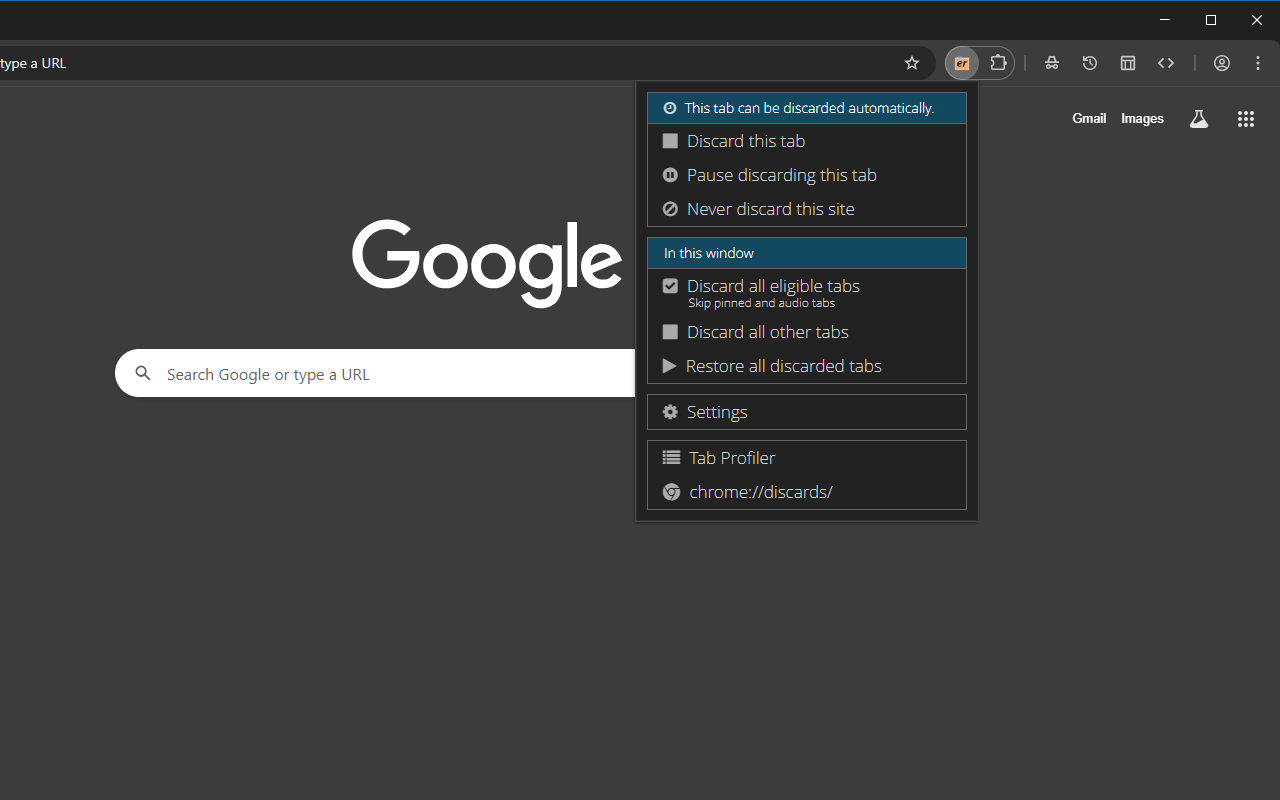
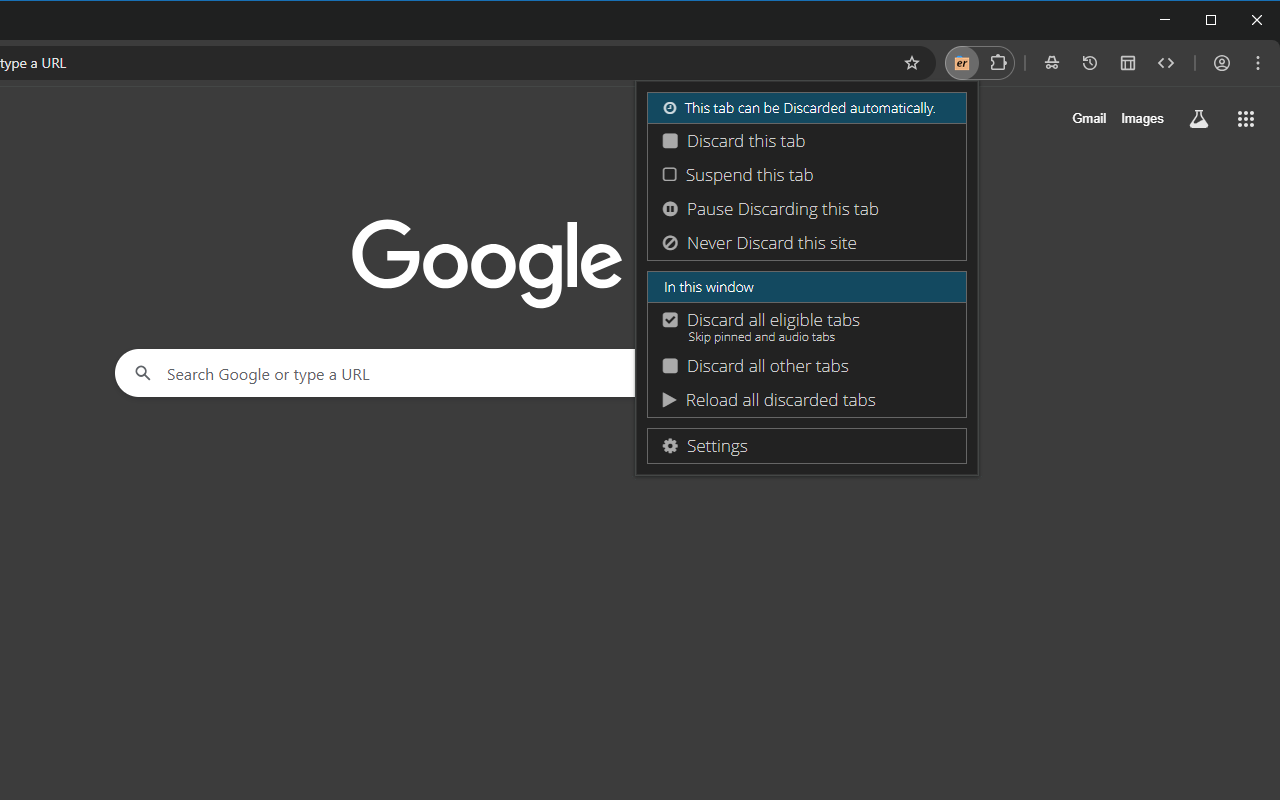
Prep for release

Changed region(s): [[0.5, 0.1875, 0.7812, 0.6562], [0.5938, 0.125, 0.75, 0.1562]]

diff --git a/src/html/about.html b/src/html/about.html
@@ -27,7 +27,8 @@
       <hr />
 
       <p>
-        Help others find this extension -- submit a rating!<br>
+        Help others find the extension<br>
+        Submit a &#x2B50;&#x2B50;&#x2B50;&#x2B50;&#x2B50; rating in the App Store(s) if you like the extension!<br>
         <ul class="unorderedList">
           <li>
             <a href="https://chromewebstore.google.com/detail/the-great-er-tab-discarder/plpkmjcnhhnpkblimgenmdhghfgghdpp" target="_blank">
@@ -36,7 +37,7 @@
           </li>
           <li>
             <a href="https://microsoftedge.microsoft.com/addons/detail/the-greater-tab-discarder/lieejiddoadedggjdkgeellgeeibbnai" target="_blank">
-            Edge Add-ons
+              Edge Add-ons
             </a>
           </li>
         </ul>
@@ -52,9 +53,18 @@
 
       <h2>What's New</h2>
       <p>
+        <div>v1.3.0 - Apr 2025</div>
+        <ul class="unorderedList">
+          <li>New: Suspending Tabs has been added</li>
+          <li>New: Suspended Tabs can have their tab titles customized with a prefix</li>
+          <li>Update: Migrating tabs lets you view and select which tabs to Migrate or Convert</li>
+          <li>New: <span class="bold">Tiny Suspender</span> suspend.html tabs can be migrated</li>
+          <li>Fix: Tab migration to handle the different formats better, which should prevent looping</li>
+        </ul>
+
         <div>v1.2.2 - Mar 2025</div>
         <ul class="unorderedList">
-          <li>- Fix: "Discard at startup" (again) to prevent discarding tabs when the browser restarts idle workers</li>
+          <li>Fix: "Discard at startup" (again) to prevent discarding tabs when the browser restarts idle workers</li>
         </ul>
 
         <div>v1.2.1 - Mar 2025</div>
@@ -65,18 +75,12 @@
 
         <div>v1.2.0 - Mar 2025</div>
         <ul class="unorderedList">
-          <li>New: Migrate park.html tabs from "<span class="bold">Tab Suspender</span>"</li>
+          <li>New: <span class="bold">Tab Suspender</span> park.html tabs can be migrated</li>
           <li>Fix: "Don't discard this tab for now" and rename it to "Pause discarding this tab"</li>
           <li>Fix: Several other issues related to popup and context menu actions</li>
           <li>New: Tab Groups are now ( optionally ) displayed on the Profiler page</li>
         </ul>
 
-        <div>v1.1.0 - Feb 2025</div>
-        <ul class="unorderedList">
-          <li>New: Migrate suspended.html tabs from several other extensions</li>
-          <li>New: Automatic dark mode</li>
-          <li>New Name!  Sort-of.  Small change for now, to see if visibility changes</li>
-        </ul>
       </p>
       <p>
         Full change log on

diff --git a/src/js/suspended.js b/src/js/suspended.js
@@ -62,13 +62,12 @@
 
   function updatePage() {
     const url     = parseURL();
-    console.log(url, url.hash_vars.toString());
+    // console.log(url, url.hash_vars.toString());
     if (url.target && url.clean_title) {
       setInnerHTML('suspended_title', `<img src="${faviconURL(url.target)}" class="favicon" />${url.clean_title ?? ''}`);
       setInnerHTML('suspended_uri', `<a href="${url.target}">${url.target}</a>`);
       setAttribute('suspended_ico', 'href', faviconURL(url.target));
       setHeadTitle(url.full_title);
-      // console.log(`[${url.emoji}]`);
       const sel   = document.getElementById('customTitle');
       if (sel instanceof HTMLSelectElement && url.emoji) {
         sel.value = url.emoji;
@@ -82,7 +81,7 @@
    */
   function customTitle(value) {
     const url     = parseURL();
-    console.log(url, url.hash_vars.toString());
+    // console.log(url, url.hash_vars.toString());
     let str_title = '';
     if (!value) {
       str_title   = url.clean_title;
@@ -106,7 +105,7 @@
     let hash      = `#${url.hash_vars.toString()}`;
     // if (url.hash_uri) hash += `&uri=${url.hash_uri}`;
     document.location.hash = hash;
-    console.log(hash);
+    // console.log(hash);
     updatePage();
   }
 

diff --git a/README.md b/README.md
@@ -4,127 +4,115 @@
 + The Great-er Tab Discarder
 ```
 
-This is a fork of the dormant "The Great Discarder" project, now updated with new features.<br>
-No tracking.  No drama.  Only fast-*er* browsing!<br>
+Helps your browser load and run faster by freeing up memory and resources used by inactive or old tabs.
+
+No tracking.  No drama.  Only fast-*er* browsing!
+
 Full Manifest V3 support in Chrome and Edge.
 
 <br>
 
-**Welcome** to all users coming from "**The Marvellous Suspender**", "**The Great Suspender (notrack)**", "**Tab Suspender**", or other similar extensions!
+## Welcome
+...to all users coming from
+- **The Marvellous Suspender**
+- **The Great Suspender (notrack)**
+- **Tab Suspender**
+- **Tiny Suspender**
+- This extension can migrate your suspended tabs!
 
 > Is your tab "Suspender" extension showing a warning "This extension may soon no longer be supported" ?<br>
 
-Don't risk losing your suspended tabs!<br>
+Don't risk losing your suspended tabs!
+
 This extension can migrate your existing suspended tabs,
 so you won't lose them if/when Chrome removes your old unsupported extensions.
 
 <br>
 
+## Get the extension
+
+- [Chrome Web Store](https://chromewebstore.google.com/detail/the-great-er-tab-discarder/plpkmjcnhhnpkblimgenmdhghfgghdpp)
+- [Microsoft Edge Add-ons](https://microsoftedge.microsoft.com/addons/detail/the-greater-tab-discarder/lieejiddoadedggjdkgeellgeeibbnai)
+
+Help others find the extension -- submit a ⭐⭐⭐⭐⭐ rating in the App Store(s) if you like the extension!
+
+<br>
+
 ## What does "Discarding" a tab mean?
 > A discarded tab is one whose content has been unloaded from memory, but is still visible in the tab strip.
-> Its content is reloaded the next time it is activated.
+> Its content is automatically reloaded the next time it is activated.
 
 Discarding a tab does NOT close or remove or delete the tab.
 It natively tells your browser it can frees up memory and resources, and is the preferred way to keep your browser running fast and efficient.
 
 ## What about "Suspending" tabs?
-Tab suspending is the old-school approach at saving memory.
-Problem is, the browsers still assign resources to the suspended mini-pages.
-Tab discarding was added for a reason, as it allows the browser to natively free up memory.
+Tab suspending is the old-school approach at saving memory, **but allows for customization**.
+Your browser will still assign some resources to the suspended "mini-pages" to allow for the customization.
+You can also Discard a Suspended tab...  perhaps getting the best of both worlds.
+
+<br>
+
+## Screenshots
+<img src="./screenshots/Popup Light.png" height="200" /> &nbsp;
+<img src="./screenshots/Options Light.png" height="200" /> &nbsp;
+
+<img src="./screenshots/Popup Dark.png" height="200" /> &nbsp;
+<img src="./screenshots/Options Dark.png" height="200" /> &nbsp;
 
 <br>
 
 ## What's New
-see [CHANGELOG.md](./CHANGELOG.md) for full details.
 
-### Mar 2025
-- Migrate `park.html` tabs from "**Tab Suspender**"
+### April 2025
+- **Suspending Tabs** has been added
+  - You can Suspend individual tabs in addition to Discarding them, using the extension popup or keyboard shortcuts
+  - You can switch between automatic Suspending and Discarding tabs in the Settings
+- **Suspended Tabs** can have their tab titles customized with a prefix for setting visual distinction
+  - Example prefixes: 💤 🔴 🟡 ( ... and more colors )
+  - I'm considering favicon customization as well, if there's positive feedback for that
+- **Migrating** tabs is awesome-*er* now that you can view and select which eligible tabs you'd like to Migrate or Convert
+- **Tiny Suspender** `suspend.html` tabs can be migrated!
+- Fixed tab migration to handle the different formats better, which should prevent looping
+
+### March 2025
+- **Tab Suspender** `park.html` tabs can be migrated!
 - Fixed several issues ( introduced by Manifest V3 ) affecting popup and context menu actions
-- Fixed "Discard at startup" to handle occasional browser startup quirks
+- **Discard at startup** was fixed to handle occasional browser startup quirks
 - Rearrange the tab migration page to simplify it a bit
 - Tab Groups are now ( optionally ) displayed on the Profiler page
 
-### Feb 2025
-- Updated to "Manifest V3" so no more warning messages from Chrome!
-- Migrate `suspended.html` tabs from several other extensions, like "**The Marvellous Suspender**" and "**The Great Suspender (notrack)**"
-- Automatic dark mode
-- New name!  ( Sort-of. )  Small change for now, to see if visibility changes
+see [CHANGELOG.md](./CHANGELOG.md) for full details.
 
 <br>
 
-## Installation
-
-Help others find this extension -- **submit a rating** on the App Store(s)!
-
-- [Chrome Web Store](https://chromewebstore.google.com/detail/the-great-er-tab-discarder/plpkmjcnhhnpkblimgenmdhghfgghdpp)
-- [Microsoft Edge Add-ons](https://microsoftedge.microsoft.com/addons/detail/the-greater-tab-discarder/lieejiddoadedggjdkgeellgeeibbnai)
-
-<br>
-
-## Added Features ( beyond the original )
+## Feature Highlights
 - **Migrate Tabs** - Migrate your suspended tabs from another extension - OR, you can convert them to proper Discarded tabs!
-- **Discard all tabs at startup** - Prevents loading all your tabs at startup, while preserving the tabs in your last session.
-- **Discard other eligible tabs** - Same as "Discard all other tabs" but observes the current auto-discard settings, like skipping Pinned and Audio tabs.
-- **Optional link to Discards debug page** - Adds a link on the context and popup menus to launch the built-in chrome://discards/ page.
-- **Options / Settings** - Will switch to an existing tab if one exists, instead of always launching a new tab.
-- **Removed Google Analytics** - No tracking. No drama.
+- **Automatic Dark Mode** - The extension follows your browser's Appearance settings.
+- **Discard all tabs at startup** - Prevents your browser from reloading all your tabs at startup, which can greatly speed up startup time.
+- **Discard all eligible tabs** - Same as "Discard all other tabs" but observes the current auto-discard settings, like skipping Pinned and Audio tabs.
+- **Display tab details** - Adds a link to the popup menus to show details useful for seeing how the extension sees things.
+- **Settings** - Will re-use an existing settings tab if one exists.
+- **Removed Google Analytics** - No tracking. No drama. Only fast-*er* browsing!
 
 <br>
 
-If you have suggestions or problems using the extension, please [submit a bug or a feature request on github](https://github.com/rkodey/the-great-er-discarder-er/issues).
+## Help & Support
 
-see [DEVNOTES.md](./DEVNOTES.md) for additional Developer Notes
+If you have suggestions or problems using the extension, please
+- [Start a discussion if you have a question](https://github.com/rkodey/the-great-er-discarder-er/discussions).
+- [Submit a bug or feature request](https://github.com/rkodey/the-great-er-discarder-er/issues).
 
 <br>
 
 ## Contributors
 - Huge thanks to **Mike Frysinger** ([vapier](https://github.com/vapier)) for updating to Manifest V3!
 - [LordXerus](https://github.com/LordXerus)
-
-
-<br><br>
-----------
-<br><br>
-
-
-# Notes from the original author...
-
-"The Great Discarder" started as a clone of another (former) open source extension "The Great Suspender".
-It was built to take advantage of Chromium's 'tab discarding' functionality which is essentially a native implementation of tab suspension.
-This extension is more robust and performant, both in the resources consumed by the extension, and the memory savings of the tab suspension.
-It is also compatible with tab history syncing.
-
-
-## Install as a local extension from source
-
-1. Download the **[latest release](https://github.com/rkodey/the-great-er-discarder-er/releases)** and unarchive to your preferred location (whichever suits you).
-2. Navigate to chrome://extensions/ and enable "Developer mode" in the upper right corner.
-3. Click on the `Load unpacked extension...` button.
-4. Browse to the src directory of the downloaded, un-archived release and confirm.
-
-
-## Build from github
-
-Dependencies: openssl, nodejs / npm.
-
-Clone the repository and run these commands:
-```
-npm install
-npm run generate-key
-npm run build
-```
-
-It should say:
-```
-Done, without errors.
-```
-
-The extension in crx format will be inside the build/crx/ directory. You can drag it into chrome://extensions to install locally.
-
-## License
-
-This work is licensed under a GNU GENERAL PUBLIC LICENSE (v2)
+  <br><br>see [DEVNOTES.md](./DEVNOTES.md) for additional Developer Notes
 
 ## Shout-outs
 - deanoemcke for original extension (before selling it) [thegreatdiscarder](https://github.com/deanoemcke/).
 - This package uses the indexedDb wrapper [db.js](https://github.com/aaronpowell/db.js) written by Aaron Powell.
+
+## License
+
+This work is licensed under a GNU GENERAL PUBLIC LICENSE (v2)

diff --git a/CHANGELOG.md b/CHANGELOG.md
@@ -6,6 +6,22 @@
 
 # Change Log
 
+## 1.3.0 - Apr 2025
+- New: **Suspending Tabs** has been added
+  ( [Closes #42](https://github.com/rkodey/the-great-er-discarder-er/issues/42) )
+  - You can Suspend individual tabs in addition to Discarding them, using the extension popup or keyboard shortcuts
+  - You can switch between automatic Suspending and Discarding tabs in the Settings
+- New: **Suspended Tabs** can have their tab titles customized with a prefix for setting visual distinction
+  ( [Partial #41](https://github.com/rkodey/the-great-er-discarder-er/issues/41) )
+  ( [Partial #5](https://github.com/rkodey/the-great-er-discarder-er/issues/5) )
+  - Example prefixes: 💤 🔴 🟡 ( ... and more colors )
+  - I'm considering favicon customization as well, if there's positive feedback for that
+- Update: **Migrating** tabs is awesome-*er* now that you can view and select which eligible tabs you'd like to Migrate or Convert
+- New: **Tiny Suspender** `suspend.html` tabs can be migrated!
+  ( [Closes #51](https://github.com/rkodey/the-great-er-discarder-er/issues/51) )
+- Fix: Tab migration to handle the different formats better, which should prevent looping
+  ( [Might help #45](https://github.com/rkodey/the-great-er-discarder-er/issues/45) )
+
 ## 1.2.2 - Mar 2025
 - Fix: "Discard at startup" (again) to prevent discarding tabs when the browser restarts idle workers
   ( [Closes #43](https://github.com/rkodey/the-great-er-discarder-er/issues/43) )

diff --git a/DEVNOTES.md b/DEVNOTES.md
@@ -6,16 +6,45 @@
 
 # Developer Notes
 
+<br>
+
 ## Tab migration
 
-### "Suspender" type URL format
-- uri is NOT encoded at the end -- their code explicitly notes this
+
+### `suspended.html` type URL format
+- uri is NOT encoded at the end -- their source code explicitly notes this
   > chrome-extension://`EXTID`/suspended.html#ttl=`TITLE`&pos=0&uri=`URI`
 
 
-### "Tab Profiler" URL format
+### "Tab Suspender" `park.html` URL format
+- fiabciakcmgepblmdkmemdbbkilneeeh
 - The querystring looks correctly coded here, and using URL.searchParams produces good results so far
   > chrome-extension://`EXTID`/park.html?title=`TITLE`&url=`URI`&tabId=`INT`&sessionId=`INT`&icon=data%3Aimage%2Fpng%3Bbase64%2C`data`
+
+
+### "Tiny Suspender" `suspend.html` URL format
+- bbomjaikkcabgmfaomdichgcodnaeecf
+  > chrome-extension://`EXTID`/suspend.html?url=`URI`&title=`TITLE`&favIconUrl=https%3A%2F%2Fkodey.com%2Fassets%2Fimg%2Ffavicons%2Ffavicon.ico&scroll_x=0&scroll_y=0&dark_mode=true
+
+<br>
+
+## Building the extension from source
+
+You must have nodejs installed
+
+Clone the repository and run these commands:
+```
+npm install
+npm run generate-key
+npm run build
+```
+
+It should say:
+```
+Done, without errors.
+```
+
+The extension in crx format will be inside the build/crx/ directory. You can drag it into chrome://extensions to install locally.
 
 <br>
 
